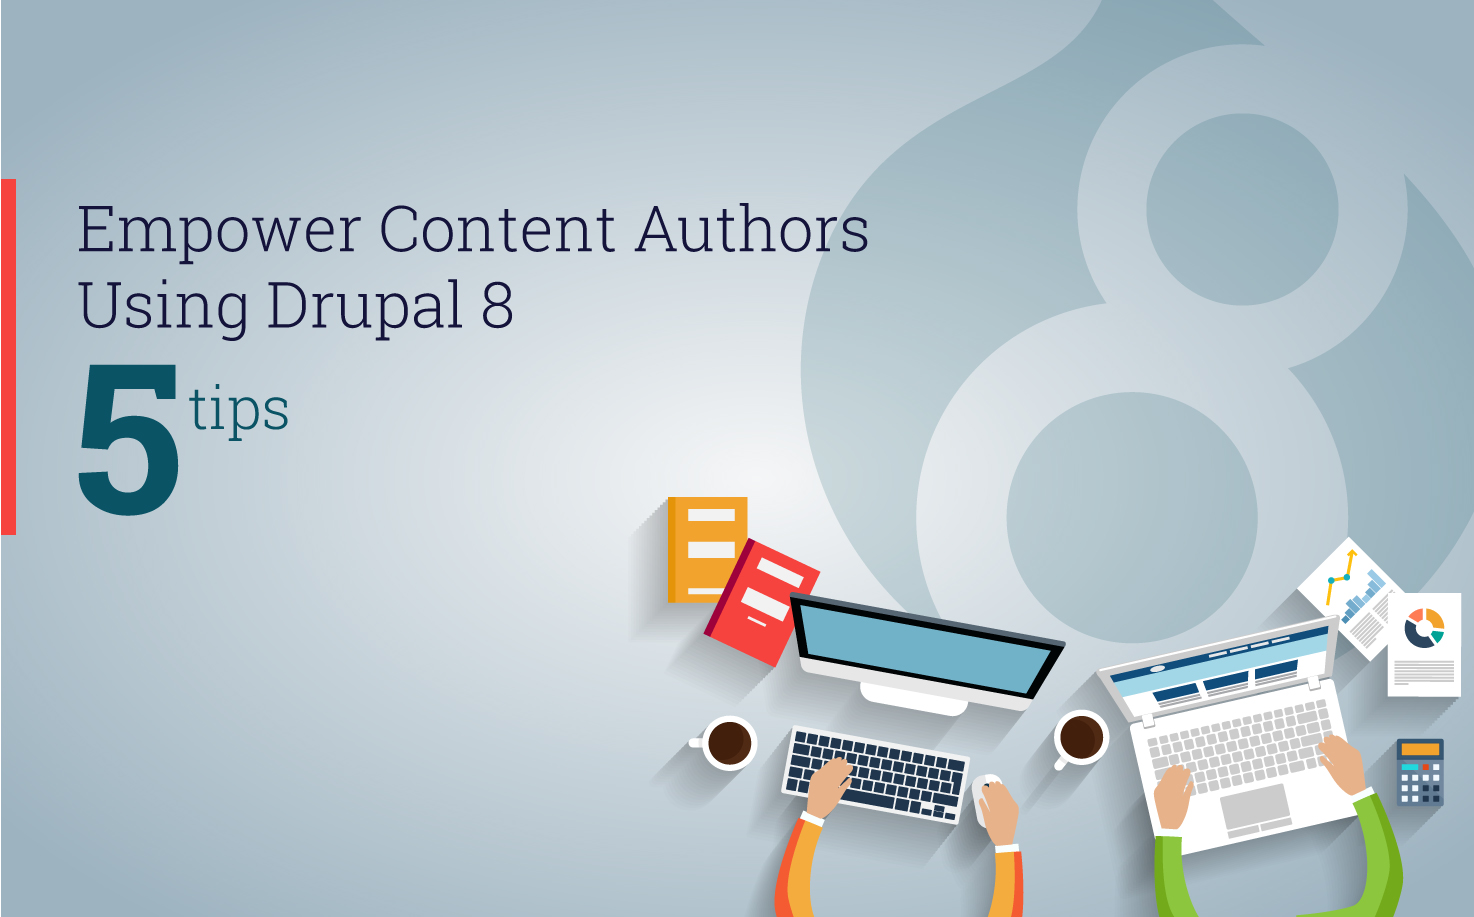
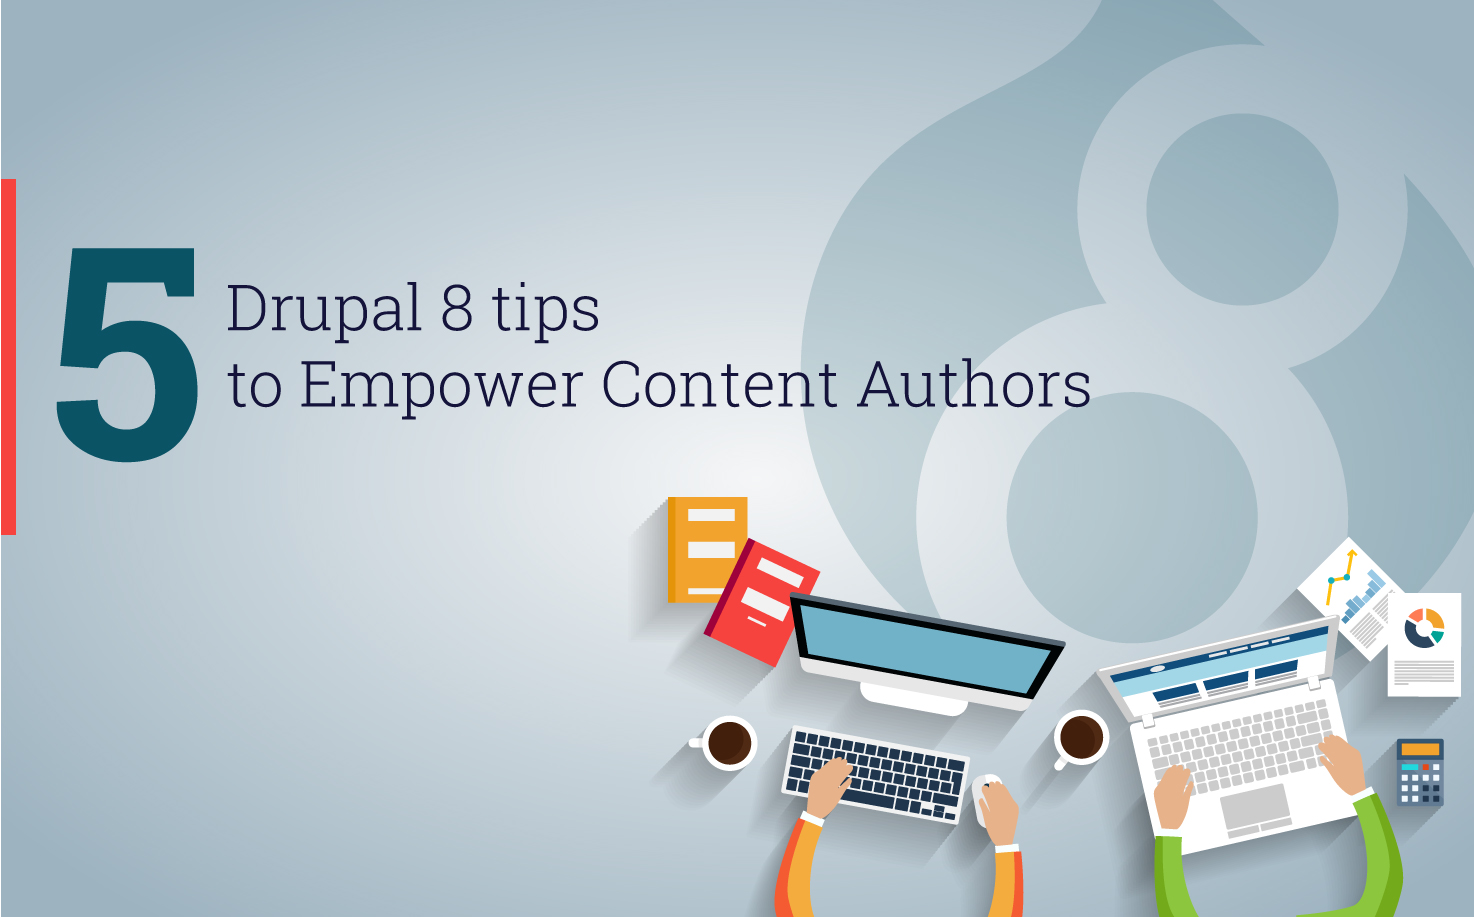
Task #2424: Update featured image + minor copy update

Changed region(s): [[0.0312, 0.2137, 0.749, 0.5802]]

diff --git a/_posts/2017-03-06-five-drupal-8-tips-to-empower-content-authors.md b/_posts/2017-03-06-five-drupal-8-tips-to-empower-content-authors.md
@@ -5,7 +5,7 @@ date: 2017-03-06
 author: Oksana Cyrwus
 tags: drupal drupal8 drupal-planet user-experience
 featured_image: "/blog/content-authoring-d8.jpg"
-featured_image_alt: "Two cartoon characters editing content on the web"
+featured_image_alt: "Five Drupal 8 Tips to Empower Content Authors"
 featured_image_height: "917px"
 featured_image_width: "1474px"
 summary: Five Drupal 8 tips to make the content authoring experience more enjoyable and productive!
@@ -20,7 +20,7 @@ drupal_planet_summary: |
 
 Creating and publishing quality content within time constraints is a common challenge for many content authors. As web engineers, we are focused on helping our clients overcome this challenge by delivering systems that are intuitive, stable, and a pleasure to operate.
 
-During architecture, it's critical to craft the editorial experience to the specific needs of content authors to ensure the best content editing experience possible. Drupal 8 makes it even easier than previous versions for digital agencies to empower content creators and editors with the right tools to get the job done efficiently, and more enjoyably.
+During the architectural phase, it's critical to craft the editorial experience to the specific needs of content authors to ensure the best content editing experience possible. Drupal 8 makes it even easier than previous versions for digital agencies to empower content creators and editors with the right tools to get the job done efficiently, and more enjoyably.
 
 Our five tips to enhance the content editing experience with Drupal 8 are:
 
